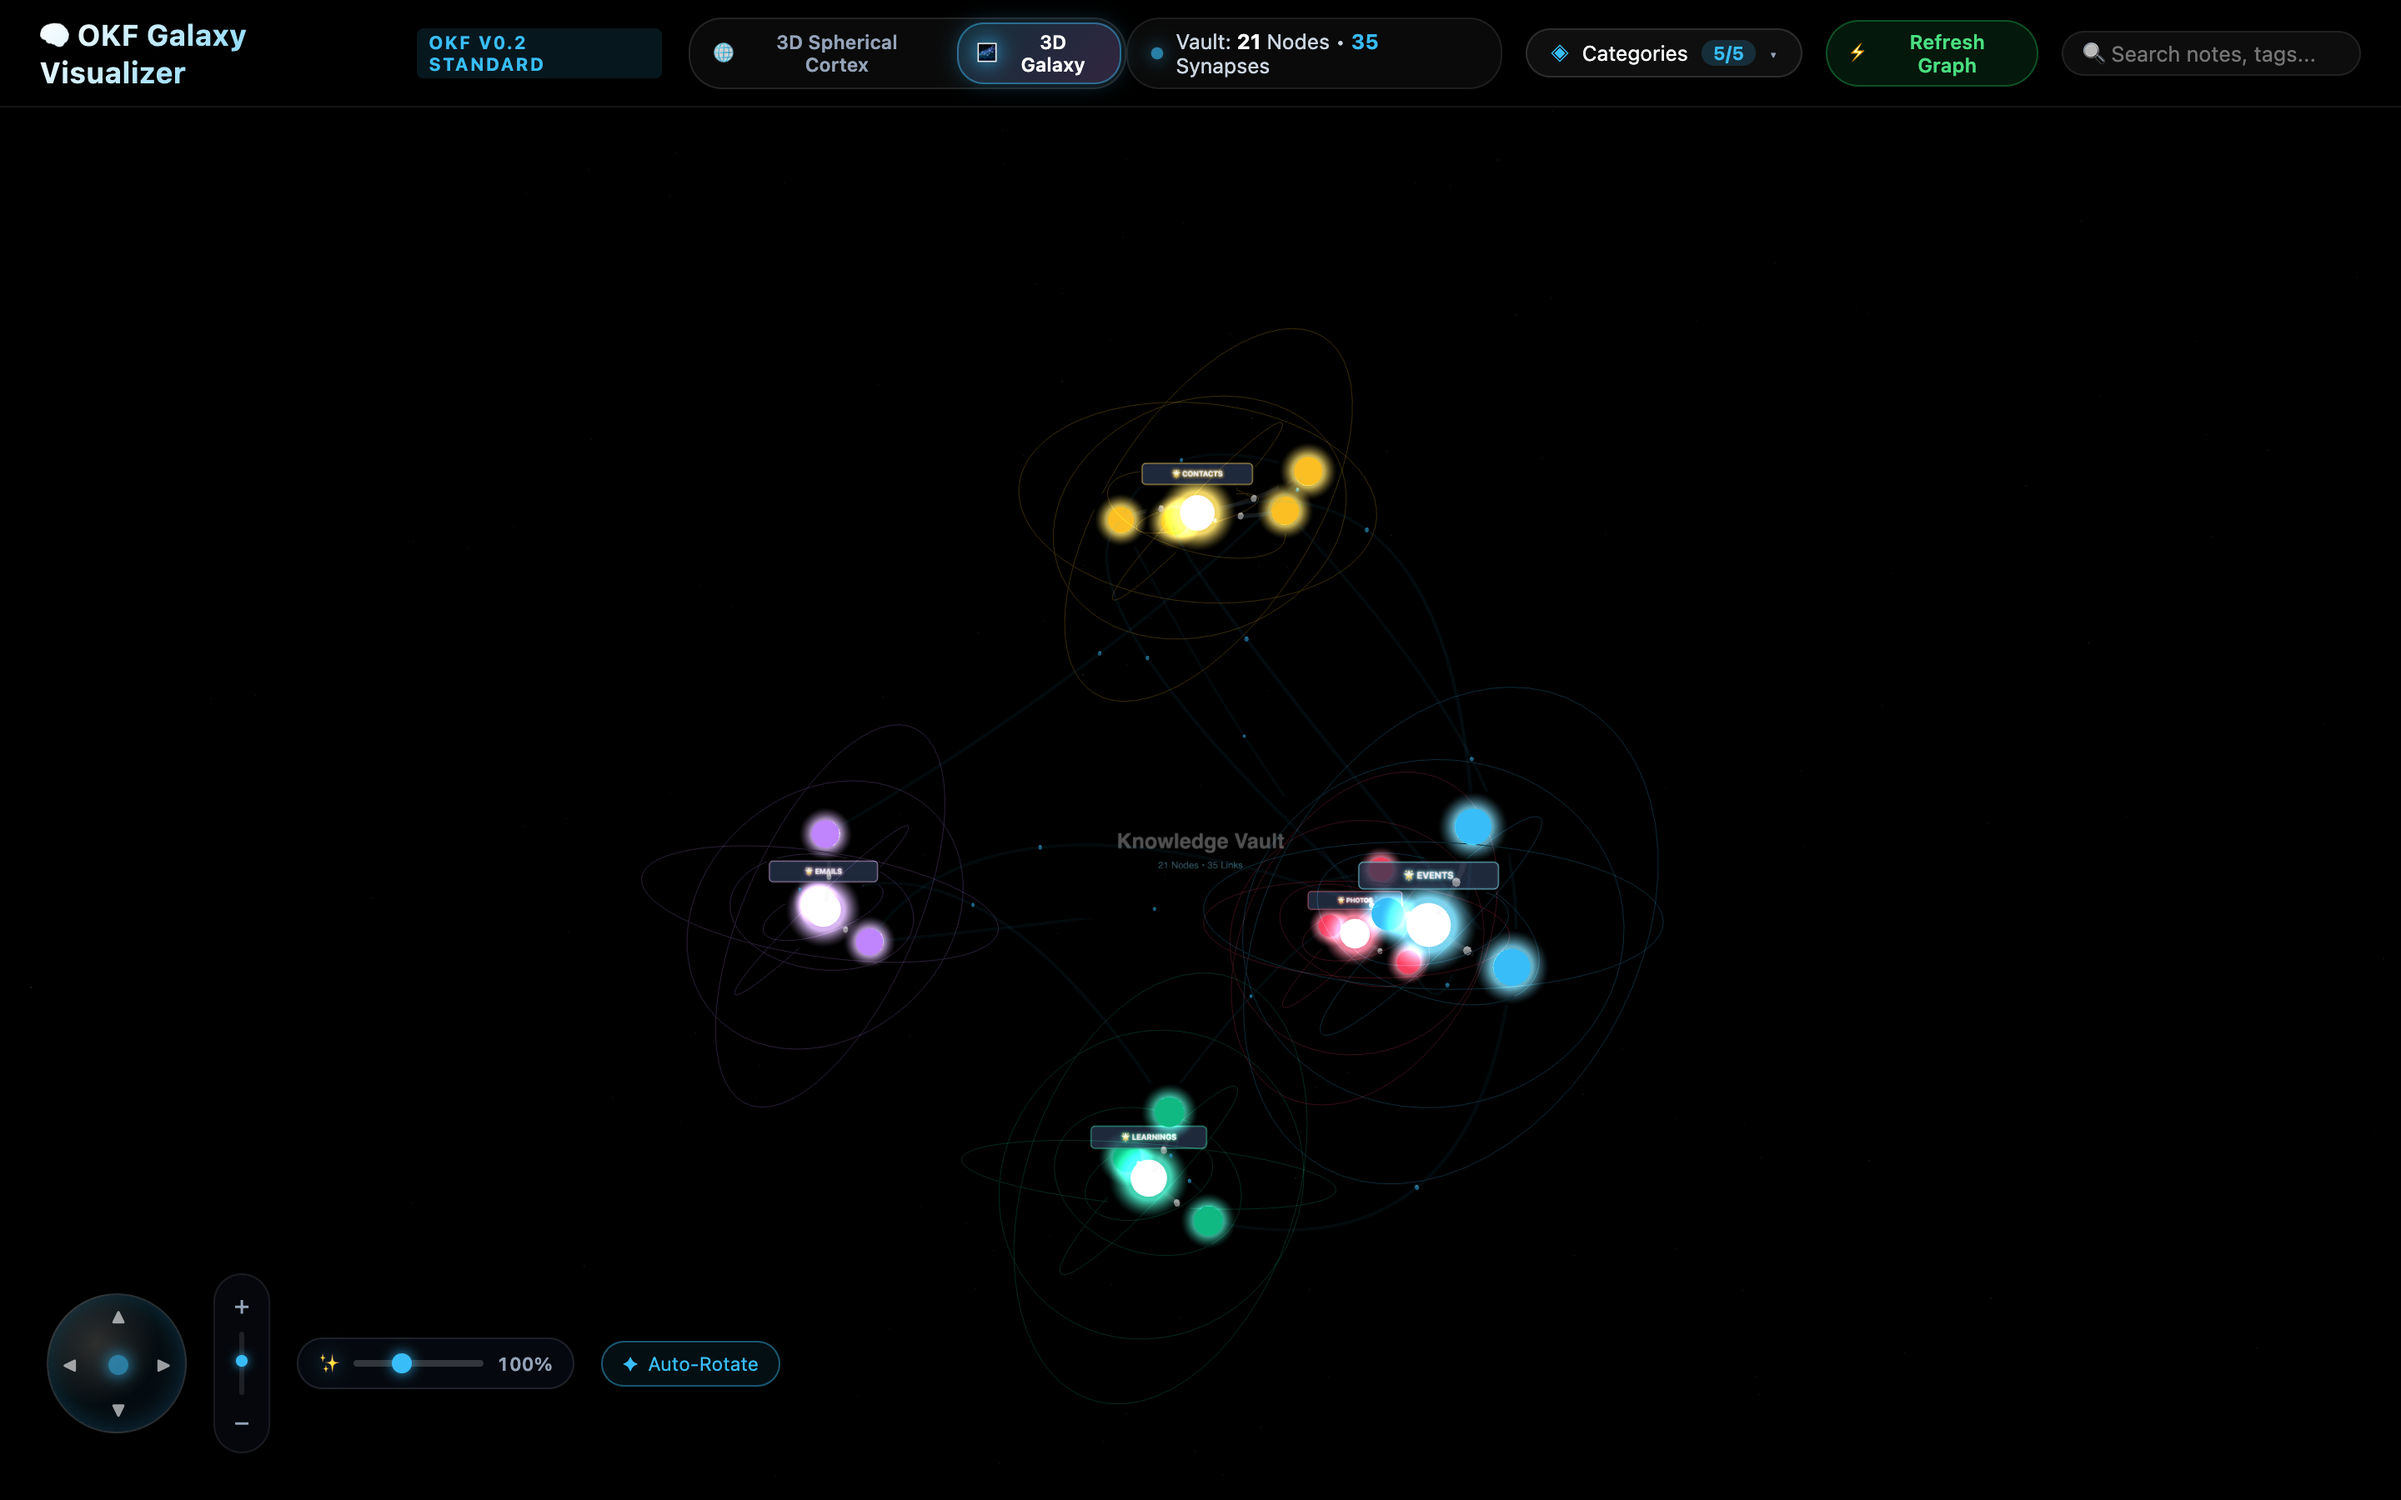
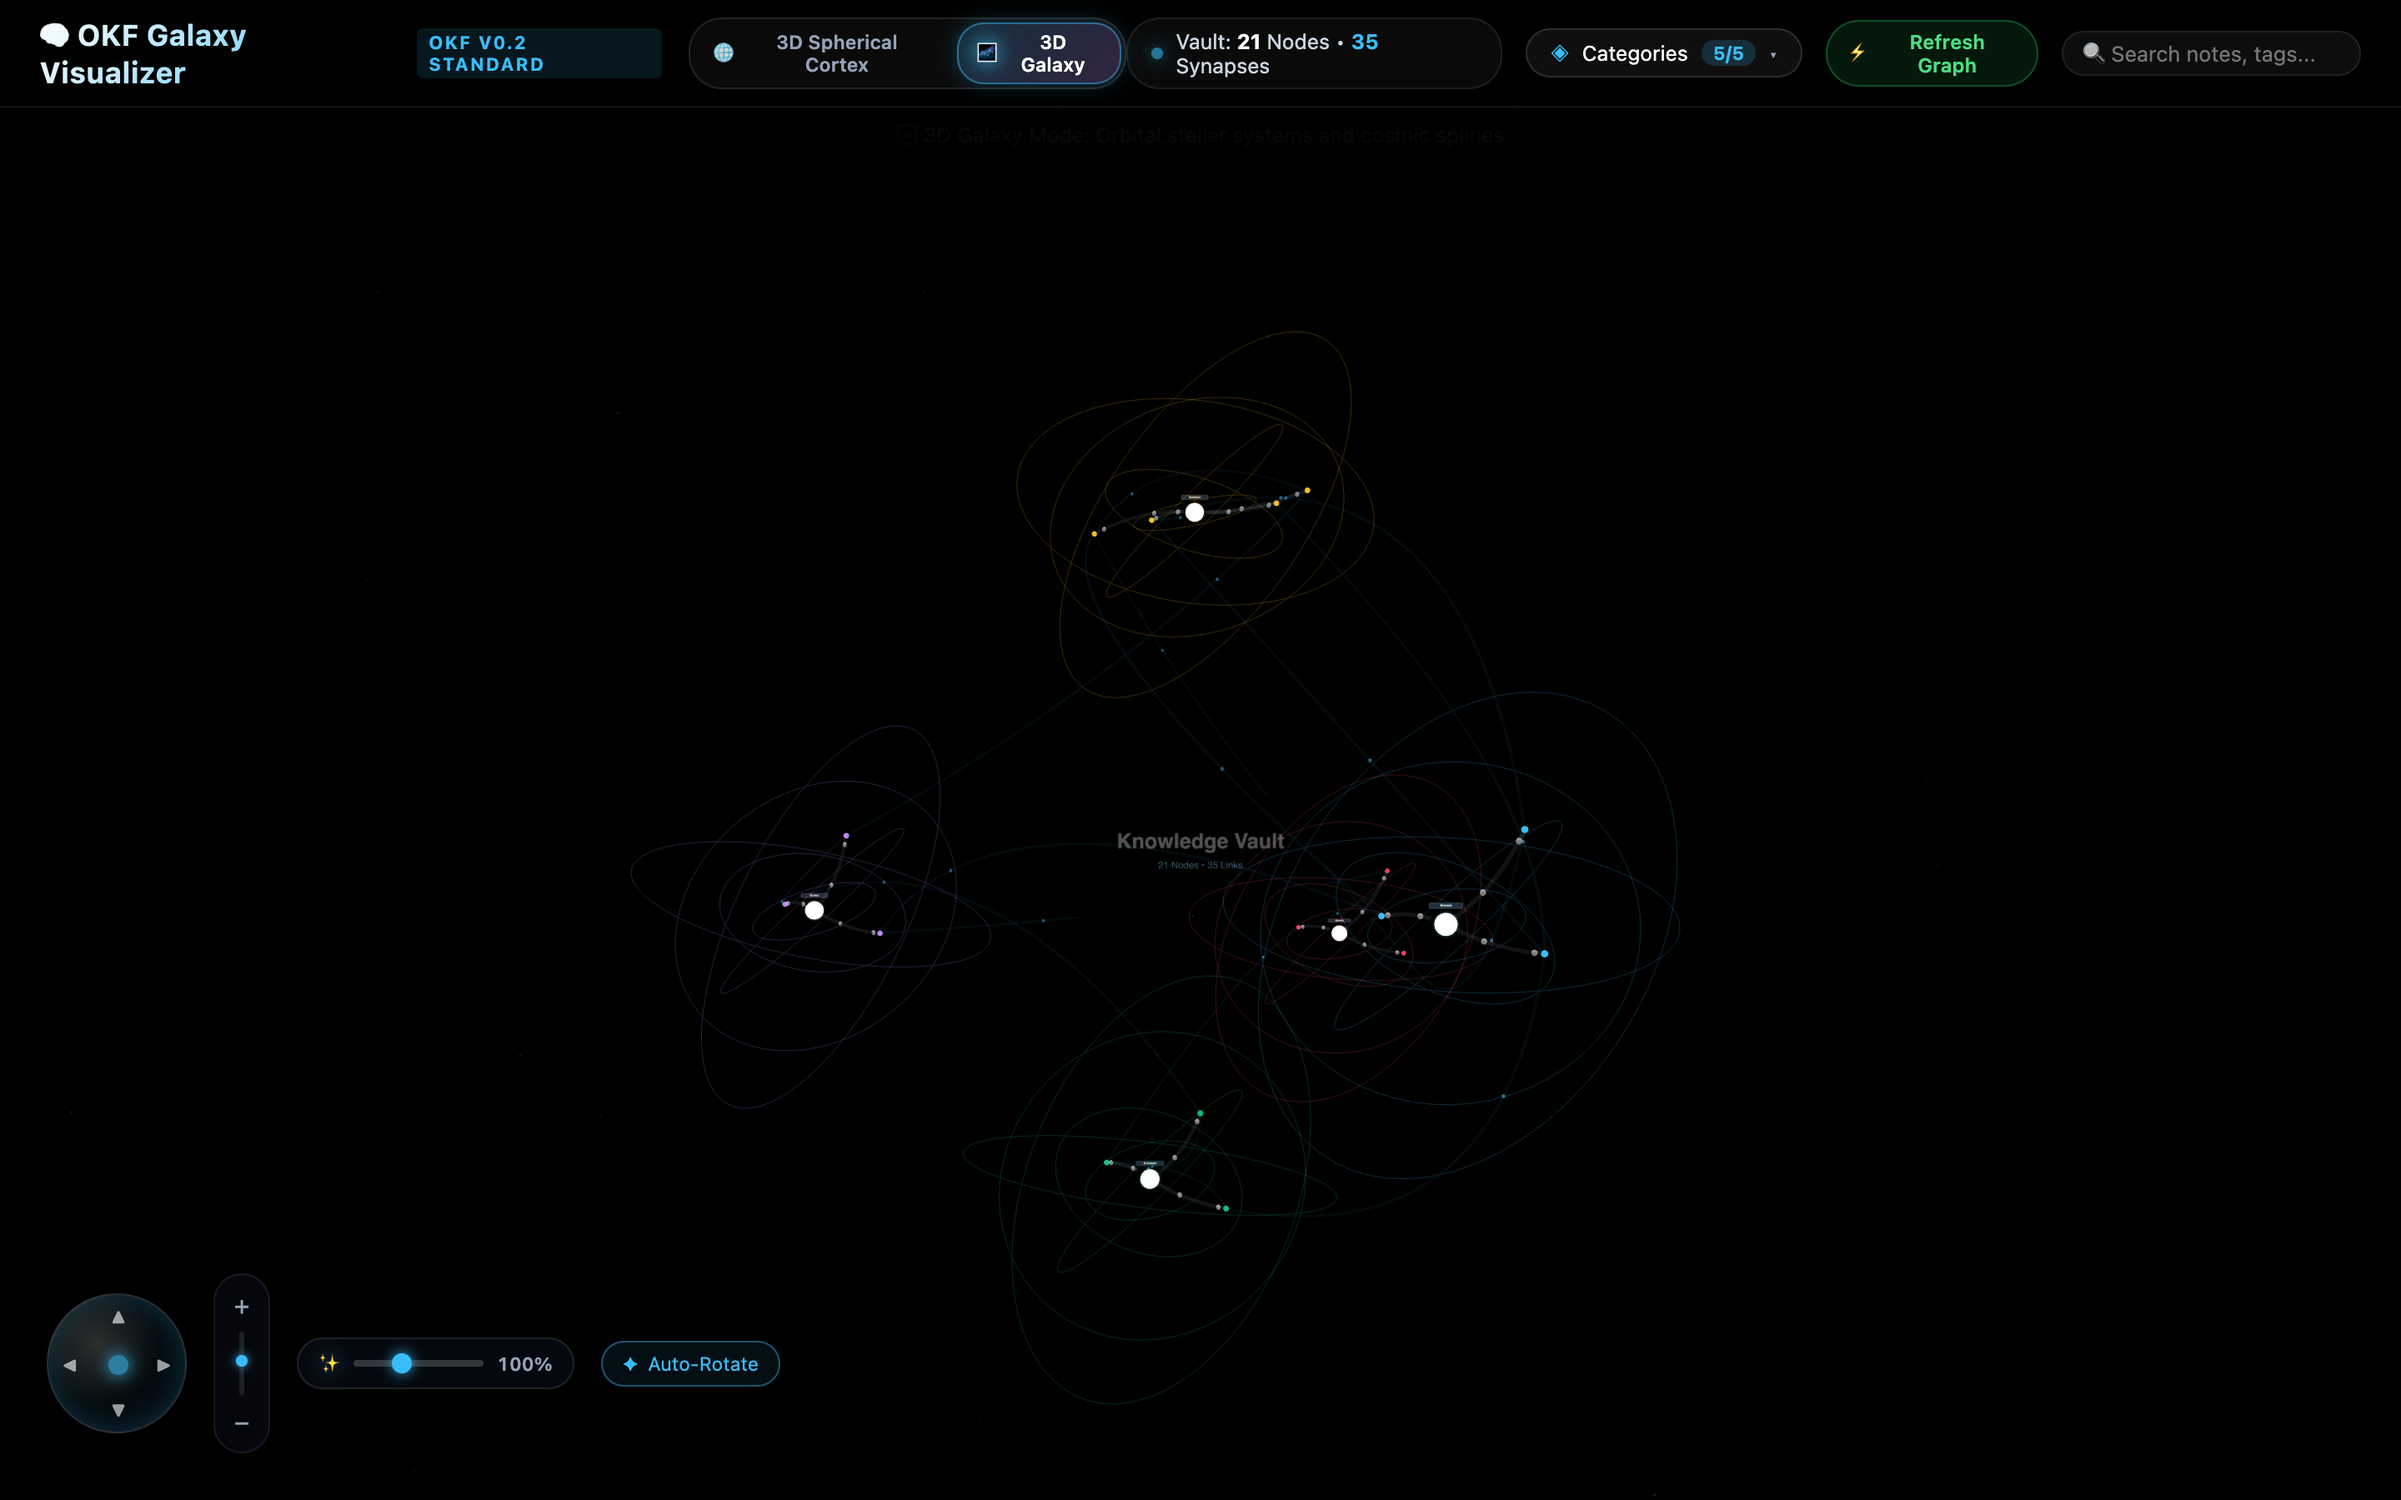
style(nodes): adjust subnodes to delicate astronomical scale and refined label pills

diff --git a/src/public/index.html b/src/public/index.html
@@ -837,56 +837,56 @@
     
     function createRootLabelSprite(text, colorHex) {
       const canvas = document.createElement('canvas');
-      canvas.width = 280;
-      canvas.height = 64;
+      canvas.width = 220;
+      canvas.height = 42;
       const ctx = canvas.getContext('2d');
 
-      ctx.fillStyle = 'rgba(6, 10, 20, 0.78)';
+      ctx.fillStyle = 'rgba(6, 10, 20, 0.82)';
       ctx.strokeStyle = colorHex;
-      ctx.lineWidth = 1.5;
+      ctx.lineWidth = 1.2;
       ctx.beginPath();
-      ctx.roundRect(6, 6, 268, 52, 10);
+      ctx.roundRect(4, 4, 212, 34, 7);
       ctx.fill();
       ctx.stroke();
 
-      ctx.font = 'Bold 18px -apple-system, BlinkMacSystemFont, sans-serif';
+      ctx.font = 'Bold 13px -apple-system, BlinkMacSystemFont, sans-serif';
       ctx.fillStyle = '#f8fafc';
       ctx.textAlign = 'center';
       ctx.textBaseline = 'middle';
       ctx.shadowColor = colorHex;
-      ctx.shadowBlur = 6;
-      ctx.fillText(text, 140, 32);
+      ctx.shadowBlur = 5;
+      ctx.fillText(text, 110, 21);
 
       const texture = new THREE.CanvasTexture(canvas);
       const spriteMaterial = new THREE.SpriteMaterial({ map: texture, transparent: true, opacity: 0.92 });
       const sprite = new THREE.Sprite(spriteMaterial);
-      sprite.scale.set(48, 11, 1);
+      sprite.scale.set(11.5, 2.2, 1);
       return sprite;
     }
 
     function createLabelSprite(text, colorHex) {
       const canvas = document.createElement('canvas');
-      canvas.width = 300;
-      canvas.height = 70;
+      canvas.width = 200;
+      canvas.height = 38;
       const ctx = canvas.getContext('2d');
 
-      // Glass pill badge
-      ctx.fillStyle = 'rgba(6, 12, 24, 0.88)';
-      ctx.strokeStyle = colorHex || 'rgba(56, 189, 248, 0.6)';
-      ctx.lineWidth = 2;
+      // Micro glass pill badge
+      ctx.fillStyle = 'rgba(7, 12, 22, 0.86)';
+      ctx.strokeStyle = colorHex || 'rgba(56, 189, 248, 0.55)';
+      ctx.lineWidth = 1.2;
       ctx.beginPath();
-      ctx.roundRect(8, 8, 284, 54, 12);
+      ctx.roundRect(3, 3, 194, 32, 6);
       ctx.fill();
       ctx.stroke();
 
-      ctx.font = 'Bold 18px -apple-system, sans-serif';
+      ctx.font = '600 11px -apple-system, BlinkMacSystemFont, "Segoe UI", Roboto, sans-serif';
       ctx.fillStyle = '#f8fafc';
       ctx.textAlign = 'center';
       ctx.textBaseline = 'middle';
       ctx.shadowColor = '#000000';
-      ctx.shadowBlur = 6;
-      const display = text.length > 25 ? text.substring(0, 23) + '…' : text;
-      ctx.fillText(display, 150, 35);
+      ctx.shadowBlur = 4;
+      const display = text.length > 20 ? text.substring(0, 18) + '…' : text;
+      ctx.fillText(display, 100, 19);
 
       const texture = new THREE.CanvasTexture(canvas);
       const spriteMaterial = new THREE.SpriteMaterial({
@@ -896,7 +896,7 @@
         depthWrite: false
       });
       const sprite = new THREE.Sprite(spriteMaterial);
-      sprite.scale.set(48, 11.2, 1);
+      sprite.scale.set(6.8, 1.35, 1);
       sprite.visible = false;
       return sprite;
     }
@@ -1137,11 +1137,11 @@
             const isRoot = !!node.isRoot;
             const degree = nodeDegreeMap.get(node.id) || 1;
 
-            // PESO / POTENCIA: Nodes con más sinapsis y peso son más grandes, intensos y poderosos
+            // PESO / POTENCIA: Nodos con más sinapsis y peso son más grandes y nítidos
             const powerLevel = isRoot ? 12 : Math.min(10, degree + Math.round((node.size || 20) / 10));
 
-            // 1. Núcleo Estelar (Superficie joya radiante según peso)
-            const baseSize = isRoot ? 7.2 : Math.max(3.2, 2.6 + Math.log2(powerLevel + 1) * 1.15);
+            // 1. Núcleo Estelar y Planetario (Delicado, nítido y astronómico)
+            const baseSize = isRoot ? 3.8 : Math.max(0.7, Math.min(1.35, 0.65 + Math.log2(powerLevel + 1) * 0.18));
             const sphereGeo = new THREE.SphereGeometry(baseSize, 32, 24);
             const sphereMat = new THREE.MeshBasicMaterial({ 
               color: isRoot ? 0xffffff : nodeColor 
@@ -1149,28 +1149,28 @@
             const coreMesh = new THREE.Mesh(sphereGeo, sphereMat);
             group.add(coreMesh);
 
-            // 2. Corona de Resplandor Volumétrico Proporcional a la Potencia
+            // 2. Corona de Resplandor Suave (Aura sutil sin saturar)
             const glowTex = getGlowTexture(nodeColor);
             const glowMat = new THREE.SpriteMaterial({
               map: glowTex,
               transparent: true,
               blending: THREE.AdditiveBlending,
-              opacity: isRoot ? 0.95 : Math.min(0.88, 0.58 + powerLevel * 0.035)
+              opacity: isRoot ? 0.82 : (0.22 + Math.min(powerLevel, 5) * 0.02)
             });
             const glowSprite = new THREE.Sprite(glowMat);
-            const glowScale = baseSize * (isRoot ? 4.5 : (2.8 + Math.min(powerLevel, 8) * 0.22));
+            const glowScale = baseSize * (isRoot ? 2.5 : 1.5);
             glowSprite.scale.set(glowScale, glowScale, 1);
             group.add(glowSprite);
 
             // 3. Labels: Raíces siempre visibles, subnodos aparecen dinámicamente al acercarse
             if (isRoot) {
               const rootSprite = createRootLabelSprite(node.label, nodeColor);
-              rootSprite.position.set(0, baseSize + 9, 0);
+              rootSprite.position.set(0, baseSize + 2.4, 0);
               node.__labelSprite = rootSprite;
               group.add(rootSprite);
             } else {
               const labelSprite = createLabelSprite(node.label, nodeColor);
-              labelSprite.position.set(0, baseSize + 6, 0);
+              labelSprite.position.set(0, baseSize + 1.2, 0);
               node.__labelSprite = labelSprite;
               group.add(labelSprite);
             }
@@ -1195,10 +1195,10 @@
           })
           // Enlaces Duros (Troncales Padre) vs Enlaces de Relación (Wikilinks claramente visibles)
           .linkColor(link => link.isStructural ? 'rgba(255, 255, 255, 0.45)' : 'rgba(56, 189, 248, 0.32)')
-          .linkWidth(link => link.isStructural ? 1.8 : 1.1)
+          .linkWidth(link => link.isStructural ? 1.4 : 0.85)
           .linkDirectionalParticles(link => link.isStructural ? 2 : 1)
           .linkDirectionalParticleSpeed(link => link.isStructural ? 0.002 : 0.005)
-          .linkDirectionalParticleWidth(link => link.isStructural ? 3.0 : 1.8)
+          .linkDirectionalParticleWidth(link => link.isStructural ? 2.2 : 1.4)
           .linkDirectionalParticleColor(link => link.isStructural ? '#ffffff' : '#38bdf8')
           .onNodeClick(node => focusNode(node))
           .onNodeDrag((node, translate) => {
